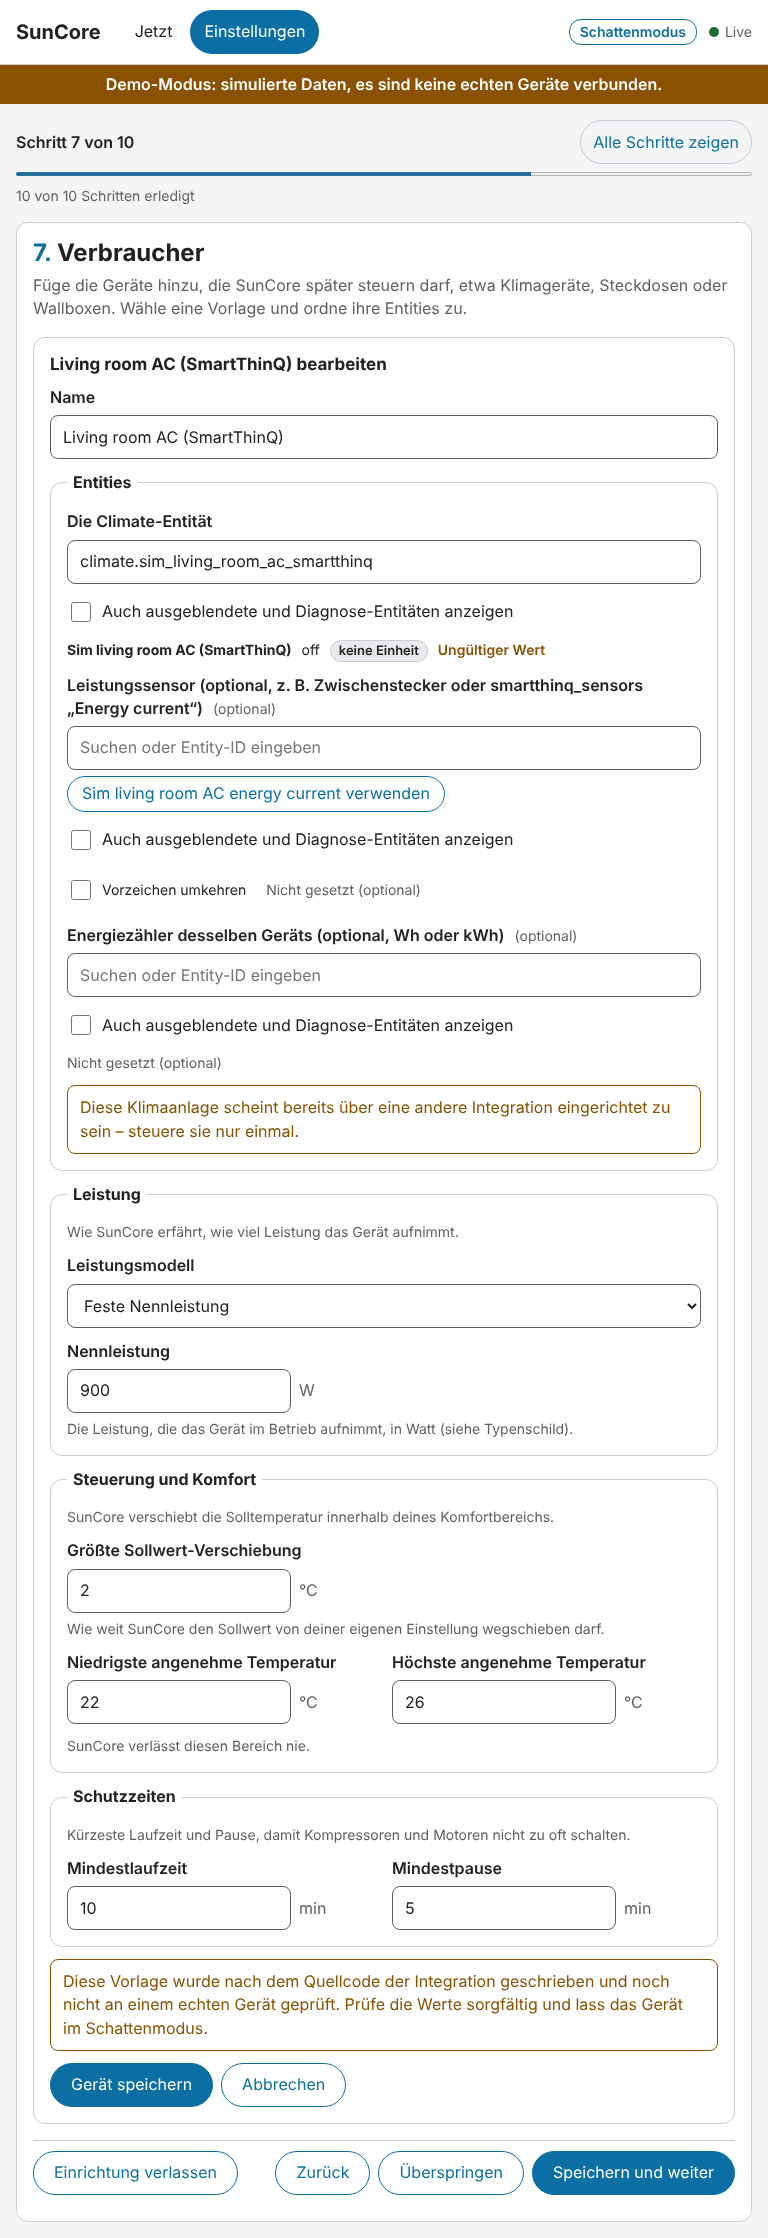
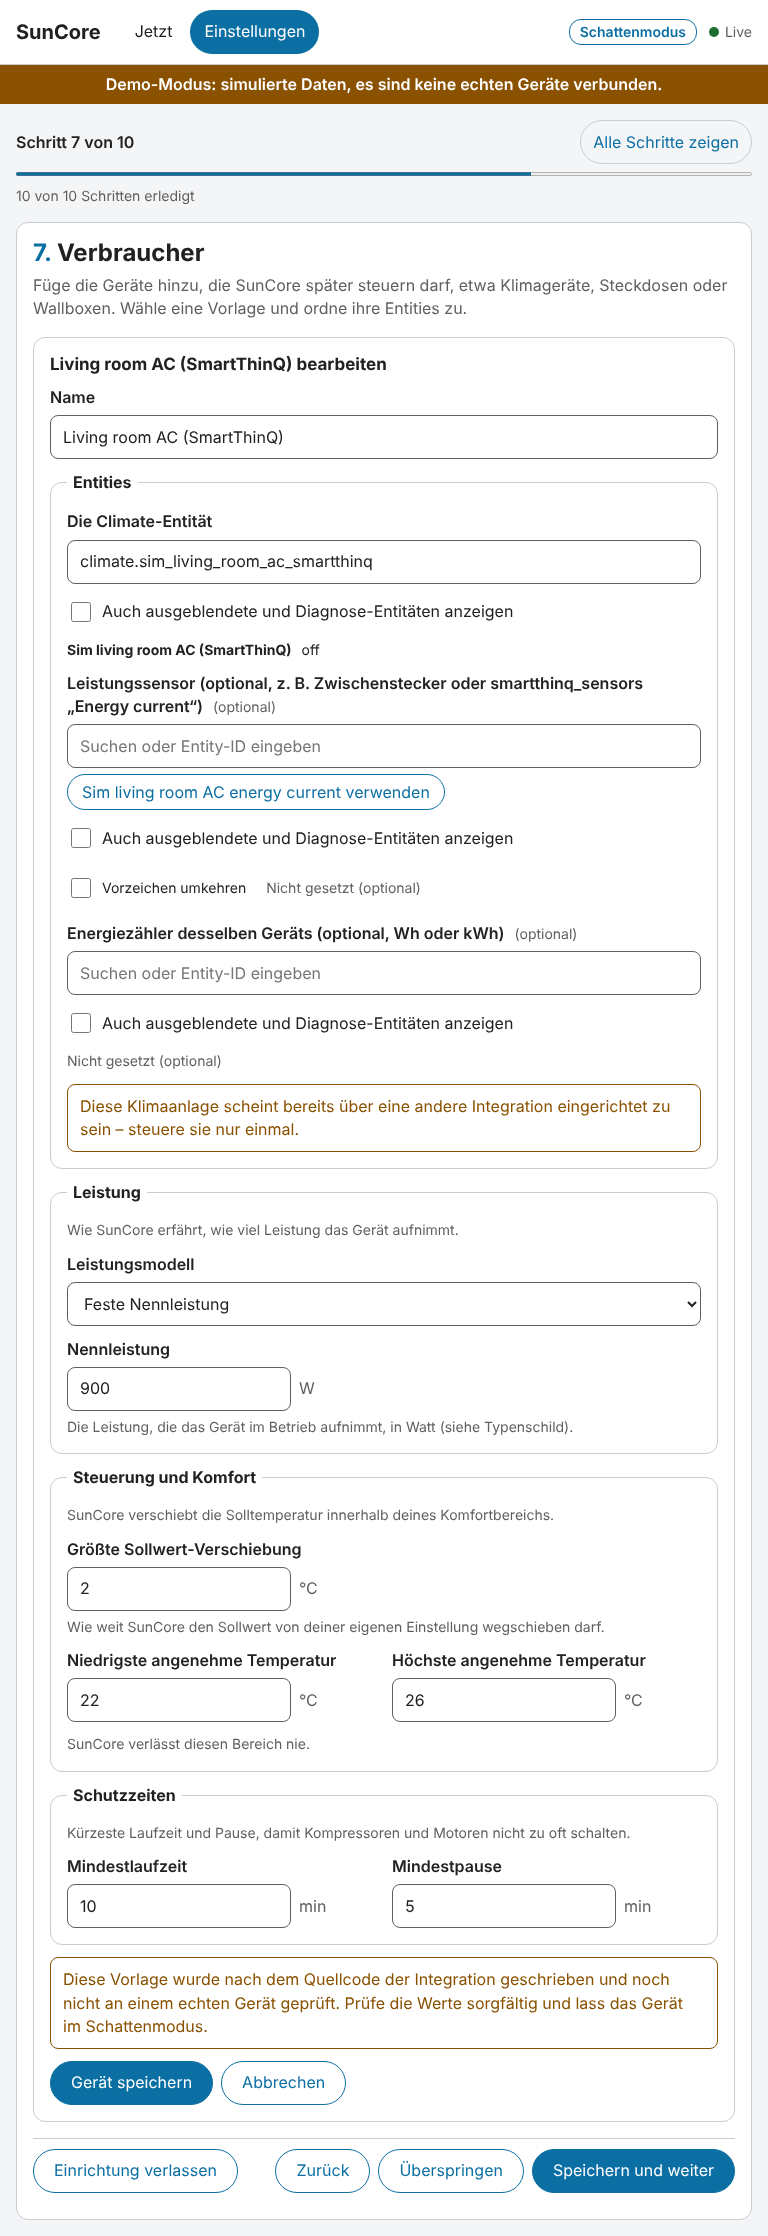
fix(frontend): no unit badge or invalid hint for climate and switch entities
Claude-Session: https://claude.ai/code/session_01A5y7wxNpKVs3BfFQRju4Ui

diff --git a/frontend/src/lib/entityFormat.ts b/frontend/src/lib/entityFormat.ts
@@ -18,6 +18,18 @@ export function candidateValueText(c: EntityCandidate): string {
   return t('entity.unavailable');
 }
 
+/** Domains whose state is a number with a unit; others (climate, switch, …) carry a raw state. */
+const MEASURING_DOMAINS = new Set(['sensor', 'number', 'input_number']);
+
+/**
+ * Whether unit and numeric quality apply to the candidate. A climate or switch entity has no unit
+ * and a text state ("off"), which is normal, not an invalid value.
+ */
+export function measuring(c: Pick<EntityCandidate, 'entity_id' | 'domain'>): boolean {
+  const domain = c.domain || (c.entity_id.split('.', 1)[0] ?? '');
+  return MEASURING_DOMAINS.has(domain);
+}
+
 /** Search terms must all occur in name, entity id, area or device name (case-insensitive). */
 export function matchesQuery(c: EntityCandidate, query: string): boolean {
   const terms = query.toLowerCase().split(/\s+/).filter(Boolean);

diff --git a/frontend/src/lib/entityFormat.test.ts b/frontend/src/lib/entityFormat.test.ts
@@ -7,6 +7,7 @@ import {
   filterCandidates,
   fragmentFor,
   matchesQuery,
+  measuring,
   resolveCandidate,
 } from './entityFormat';
 
@@ -99,5 +100,14 @@ describe('fragmentFor', () => {
     const f = fragmentFor('pv.1.power', ref) as { pv: unknown[] };
     expect(f.pv[1]).toEqual({ power: ref });
     expect(f.pv).toHaveLength(2);
+  });
+});
+
+describe('measuring', () => {
+  it('treats sensors and numbers as measuring, climate and switch as raw states', () => {
+    expect(measuring({ entity_id: 'sensor.x_power', domain: 'sensor' })).toBe(true);
+    expect(measuring({ entity_id: 'number.limit', domain: '' })).toBe(true);
+    expect(measuring({ entity_id: 'climate.ac', domain: 'climate' })).toBe(false);
+    expect(measuring({ entity_id: 'switch.plug', domain: '' })).toBe(false);
   });
 });

diff --git a/frontend/src/lib/components/RolePicker.svelte b/frontend/src/lib/components/RolePicker.svelte
@@ -6,6 +6,7 @@
     candidateValueText,
     criterionKeys,
     filterCandidates,
+    measuring,
     resolveCandidate,
   } from '../entityFormat';
   import { t, tDynamic } from '../i18n/index.svelte';
@@ -264,8 +265,10 @@
       {:else if candidate}
         <strong>{candidate.name}</strong>
         <span class="state">{candidateValueText(candidate)}</span>
-        <UnitBadge unit={candidate.unit} />
-        {#if candidate.quality !== 'ok'}
+        {#if measuring(candidate)}
+          <UnitBadge unit={candidate.unit} />
+        {/if}
+        {#if candidate.quality !== 'ok' && (measuring(candidate) || candidate.quality !== 'invalid')}
           <span class="quality"
             >{tDynamic(`quality.${candidate.quality}`, undefined, 'reason.unknown')}</span
           >
